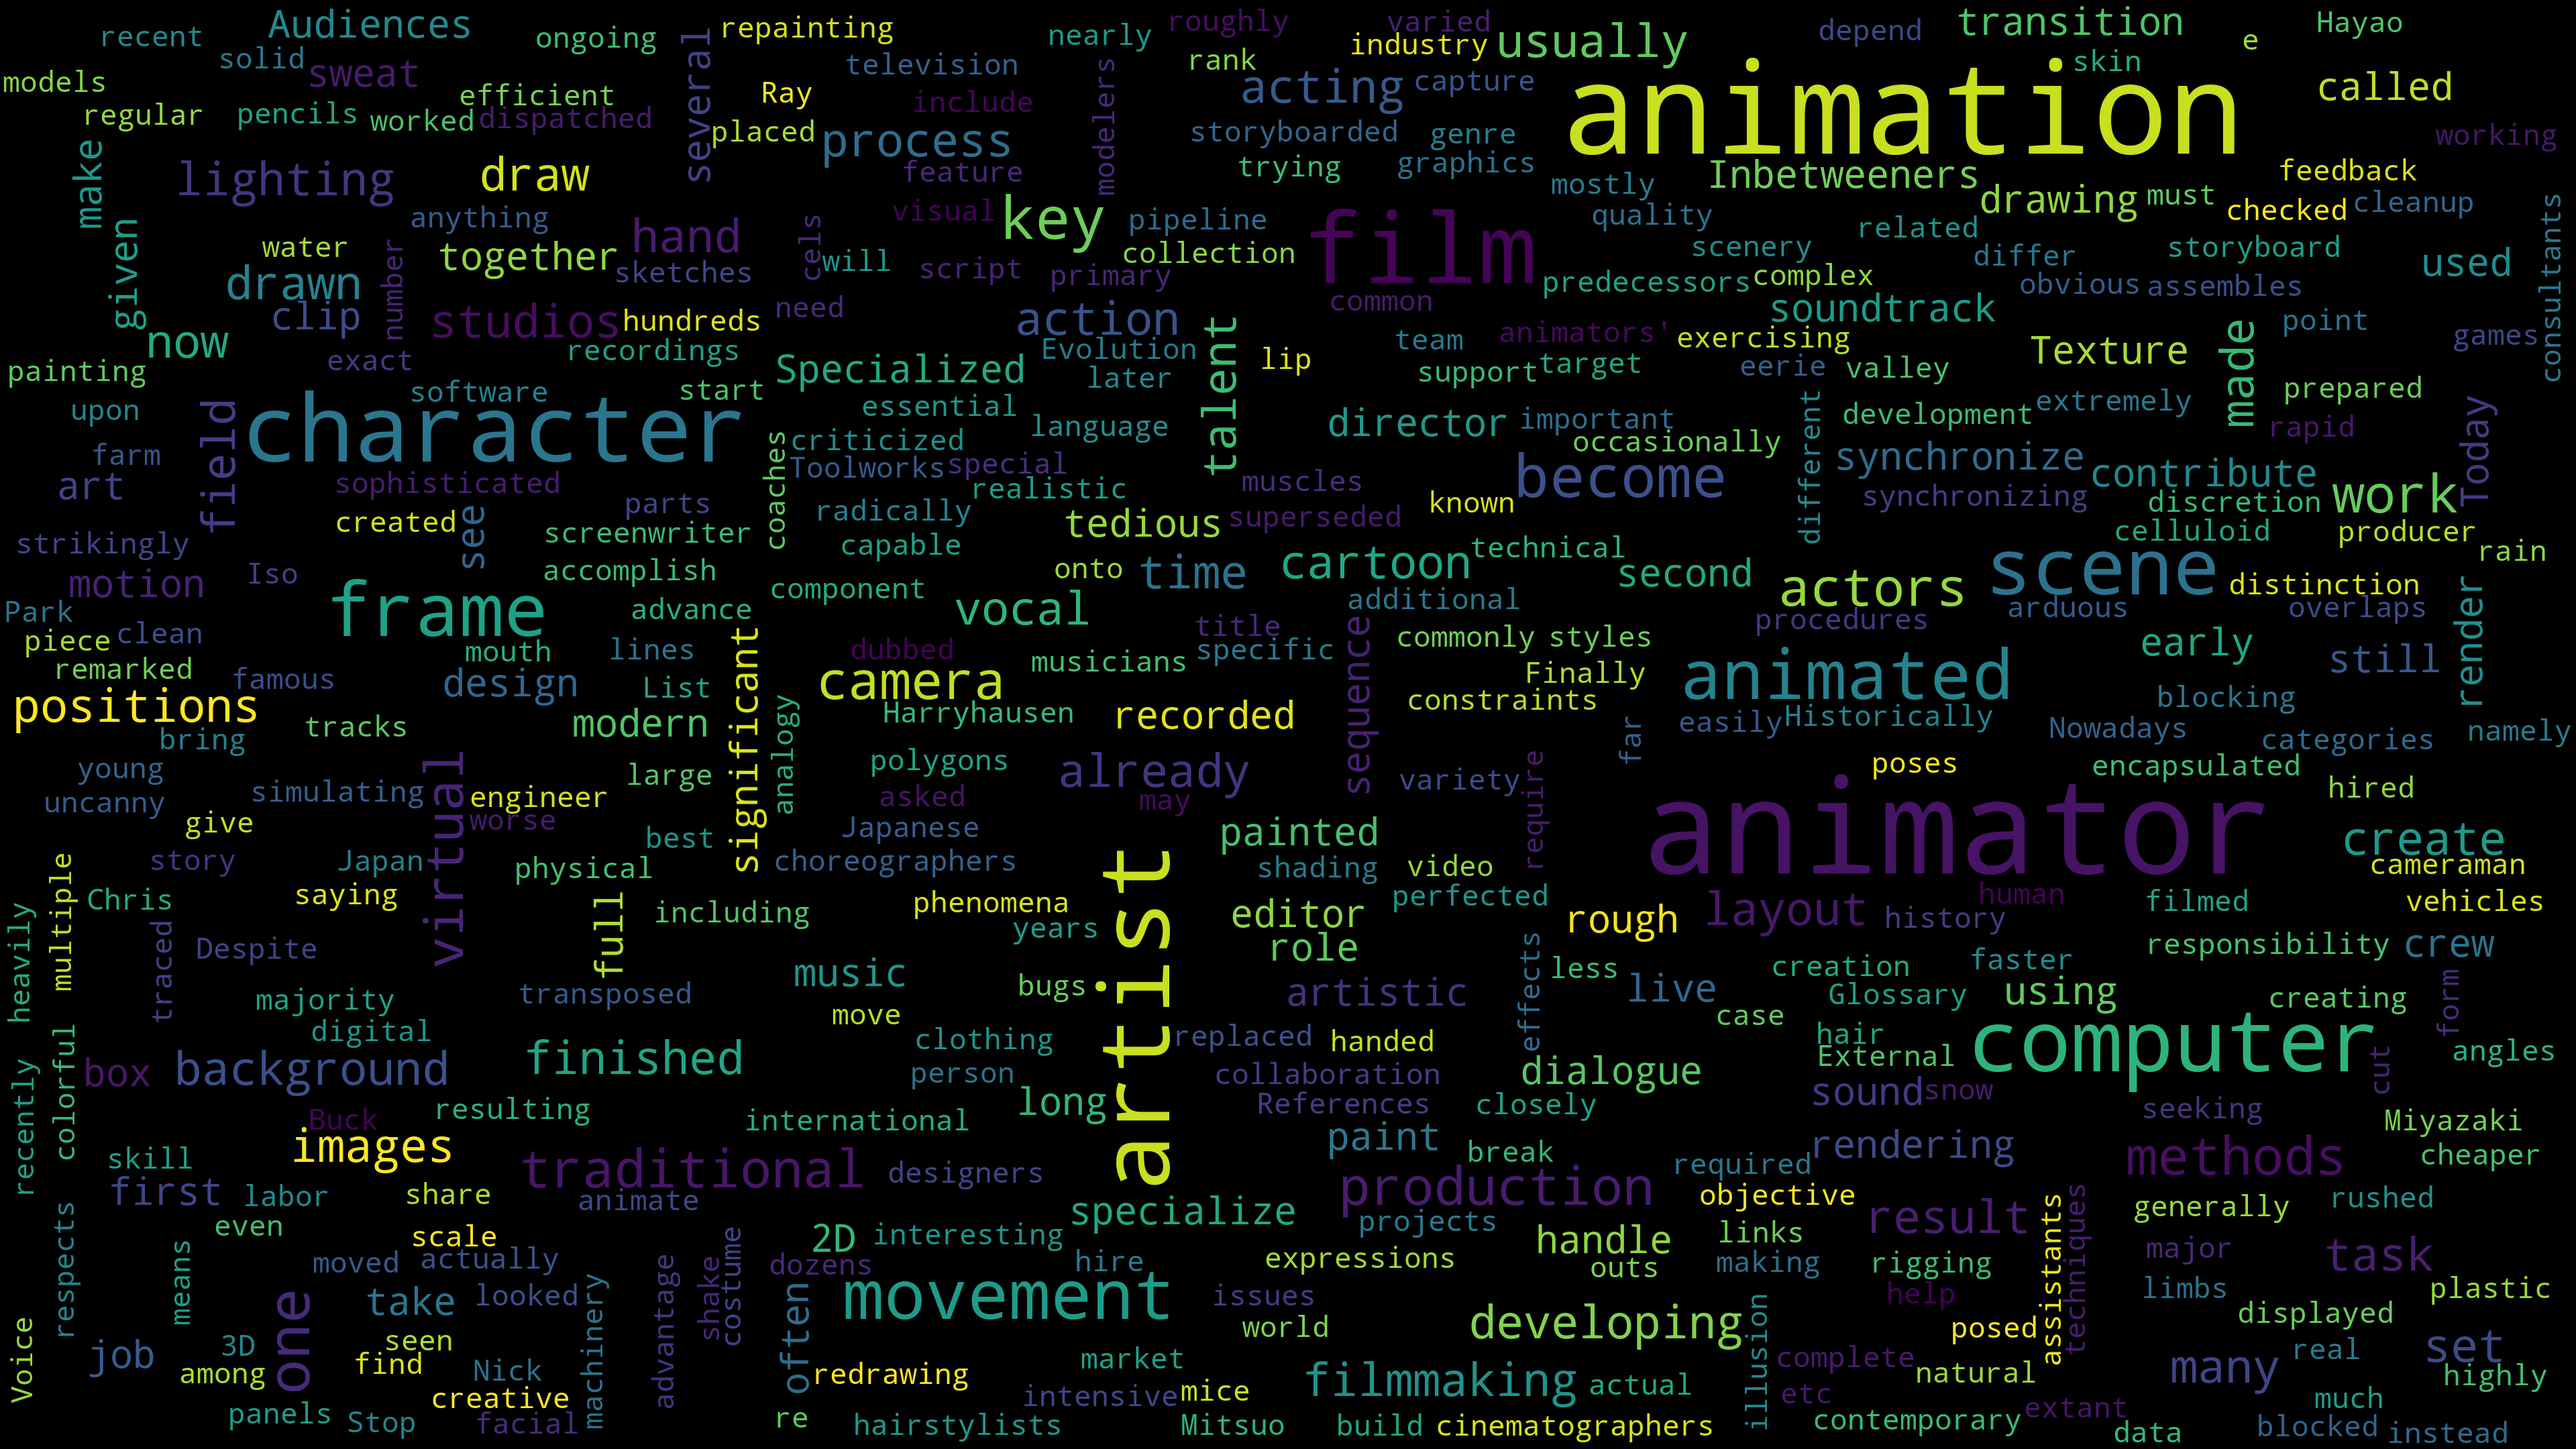
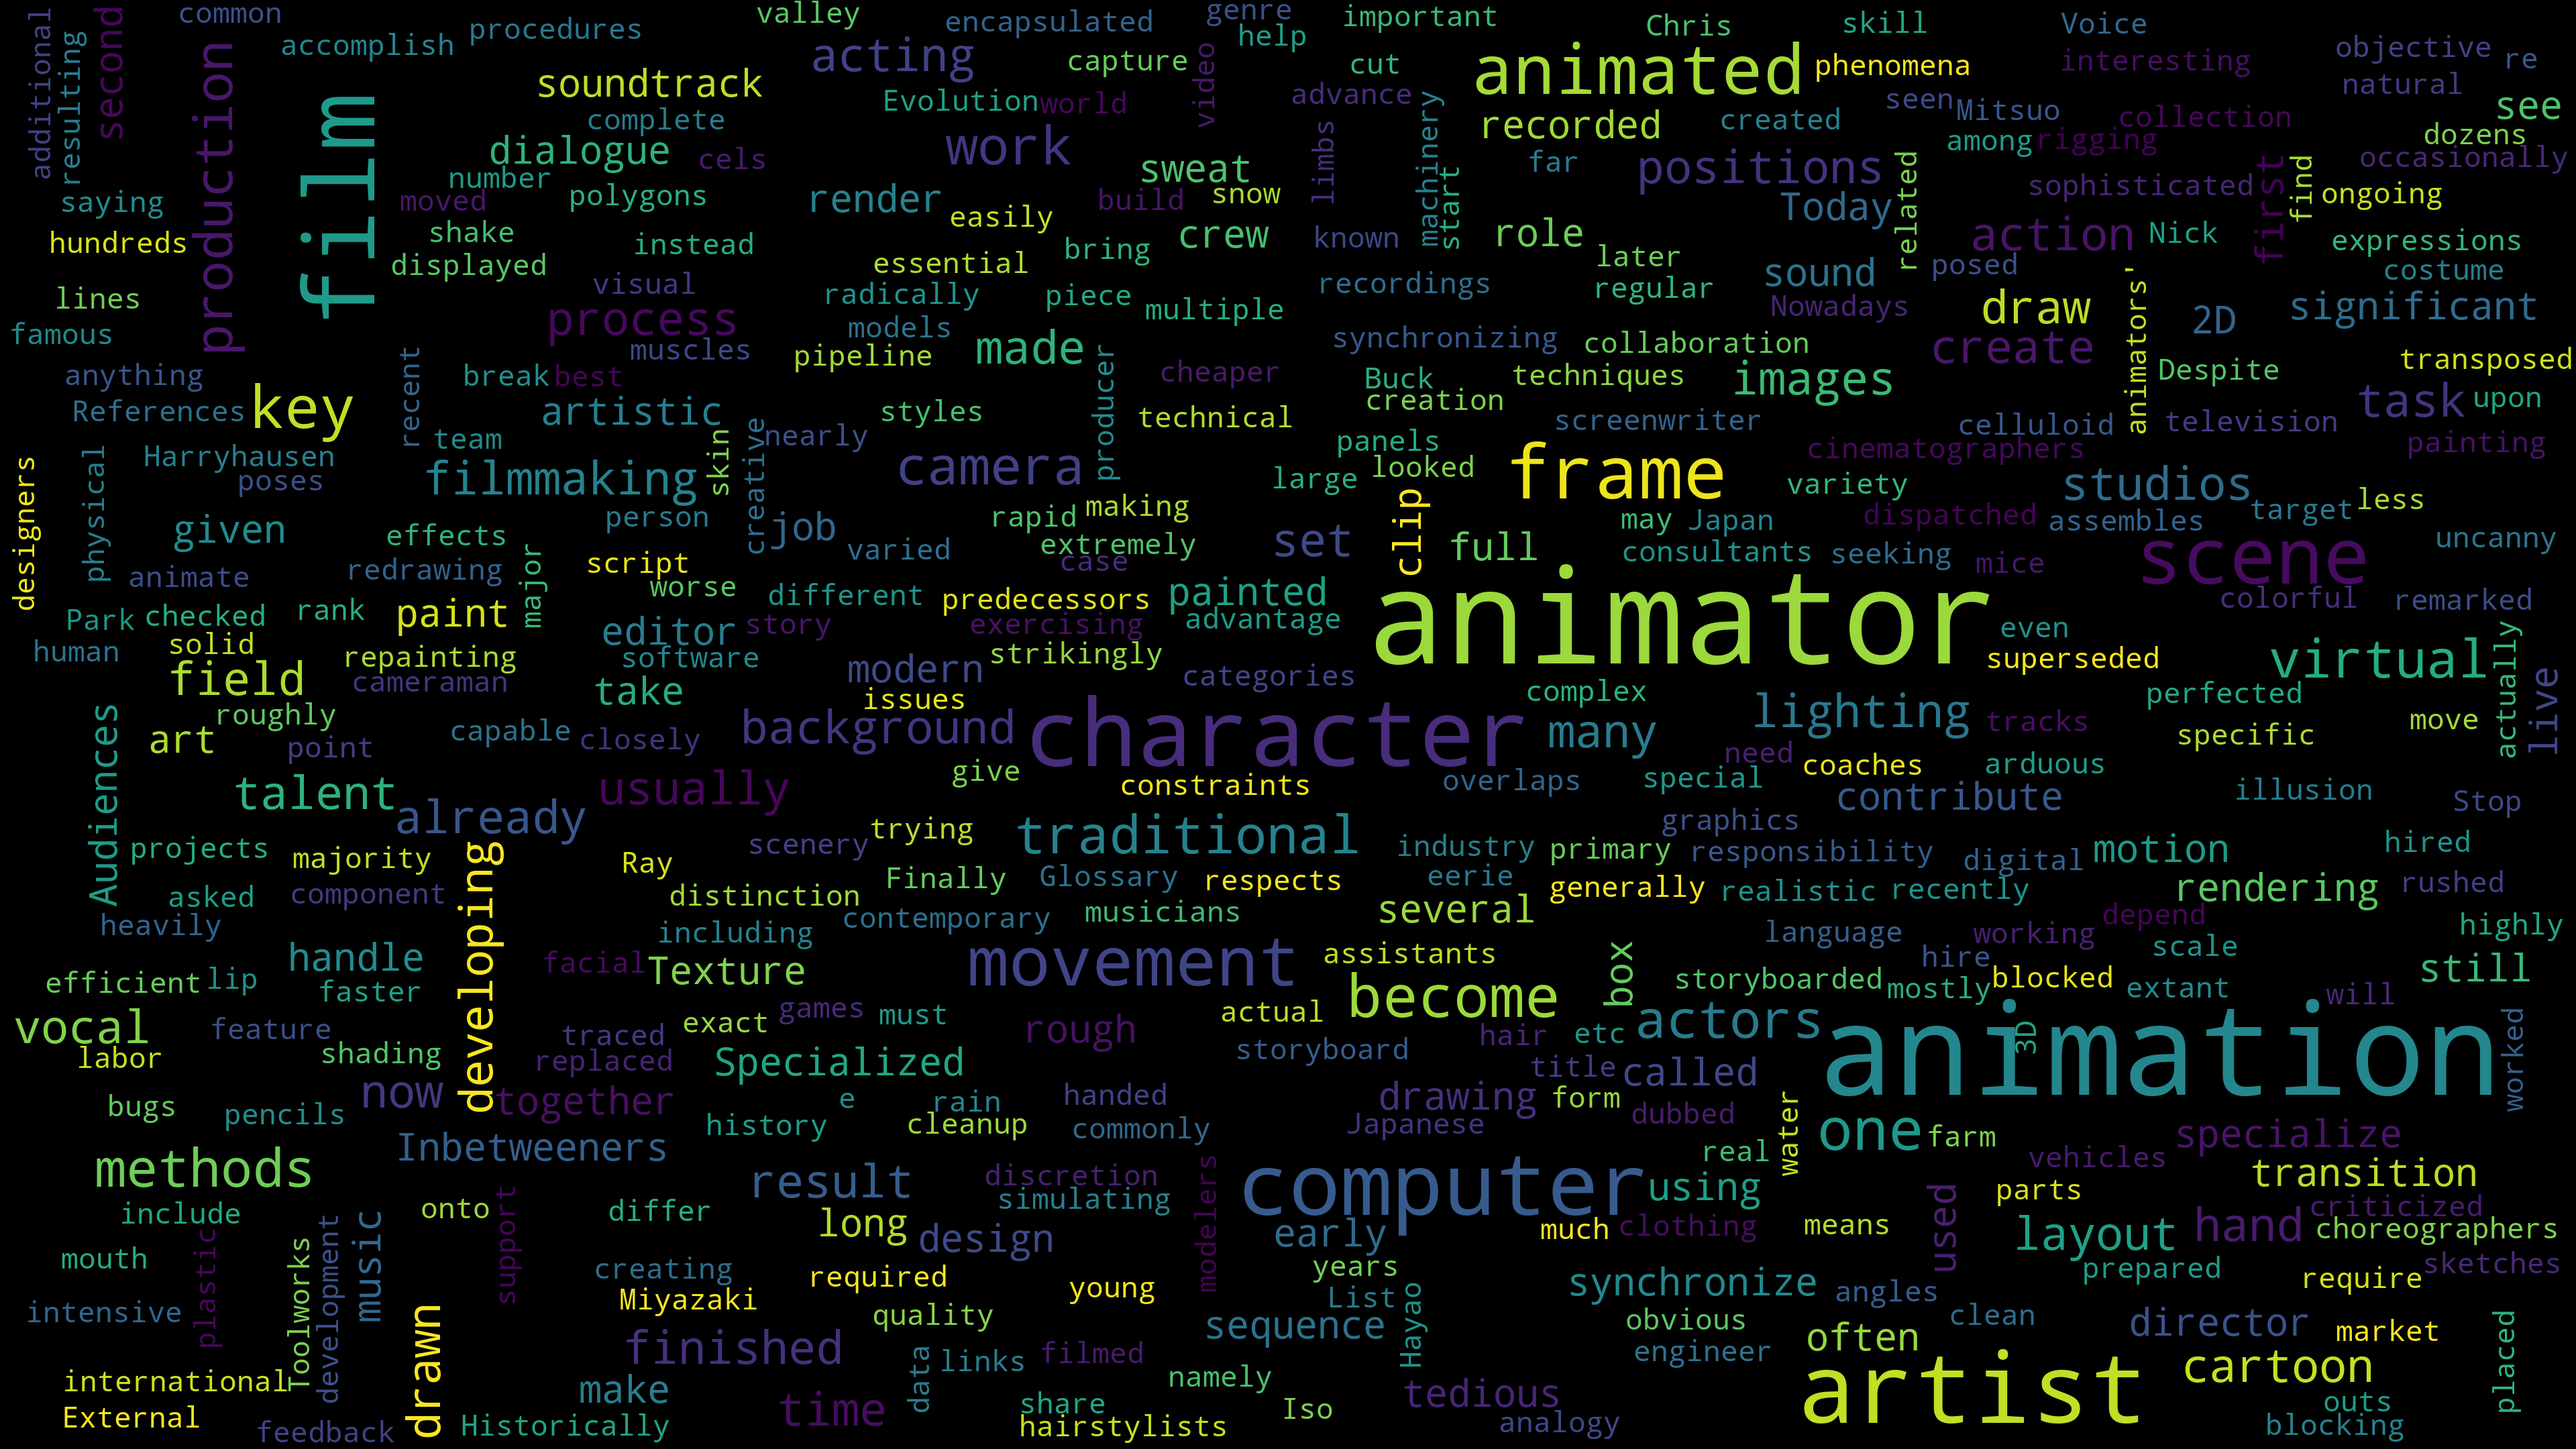
fixed code

Changed region(s): [[0.0, 0.0, 1.0, 1.0], [0.9688, 0.3722, 1.0, 0.4032], [0.9375, 0.9926, 0.9688, 1.0]]

diff --git a/Word Cloud.py b/Word Cloud.py
@@ -3,17 +3,48 @@ import numpy as np
 from PIL import Image
 import wikipedia
 from wordcloud import WordCloud, STOPWORDS
+from bs4 import BeautifulSoup
 
+try:
+    a = input("Enter the name of the topic for the word cloud: ")
+    search_results = wikipedia.search(a)
 
-a = str(input("Enter the name if which you want to make word cloud : "))
-title = wikipedia.search(a)[0]
-page = wikipedia.page(title)
-text = page.content
-print(text)
+    most_relevant_title = None
 
-bg = np.array(Image.open("black.jpg"))
-unwanted_words = set(STOPWORDS)
-wordclo = WordCloud(background_color="black", max_words=400,
-                    mask=bg, stopwords=unwanted_words)
-wordclo.generate(text)
-wordclo.to_file("sample.png")
+    for title in search_results:
+        try:
+            page = wikipedia.page(title)
+            if "disambiguation" not in page.summary.lower():
+                most_relevant_title = title
+                break
+        except wikipedia.exceptions.DisambiguationError:
+            continue
+
+    if most_relevant_title is None:
+        print("No relevant page found. Cannot create a word cloud.")
+        sys.exit()
+
+    page = wikipedia.page(most_relevant_title)
+    html = page.html()
+    lis = BeautifulSoup(html, features="html.parser").find_all('li')
+    text = " ".join([li.get_text() for li in lis])
+
+    bg = np.array(Image.open("black.jpg"))
+    unwanted_words = set(STOPWORDS)
+    wordcloud = WordCloud(
+        background_color="black",
+        max_words=400,
+        mask=bg,
+        stopwords=unwanted_words
+    )
+    wordcloud.generate(text)
+    wordcloud.to_file("sample2.png")
+    print("Word cloud created successfully as 'sample2.png'.")
+
+except wikipedia.exceptions.DisambiguationError:
+    print("Disambiguation error occurred. Cannot create a word cloud.")
+except wikipedia.exceptions.HTTPTimeoutError:
+    print("HTTP timeout error occurred. Please check your internet connection.")
+except Exception as e:
+    print(f"An error occurred: {str(e)}")
+
